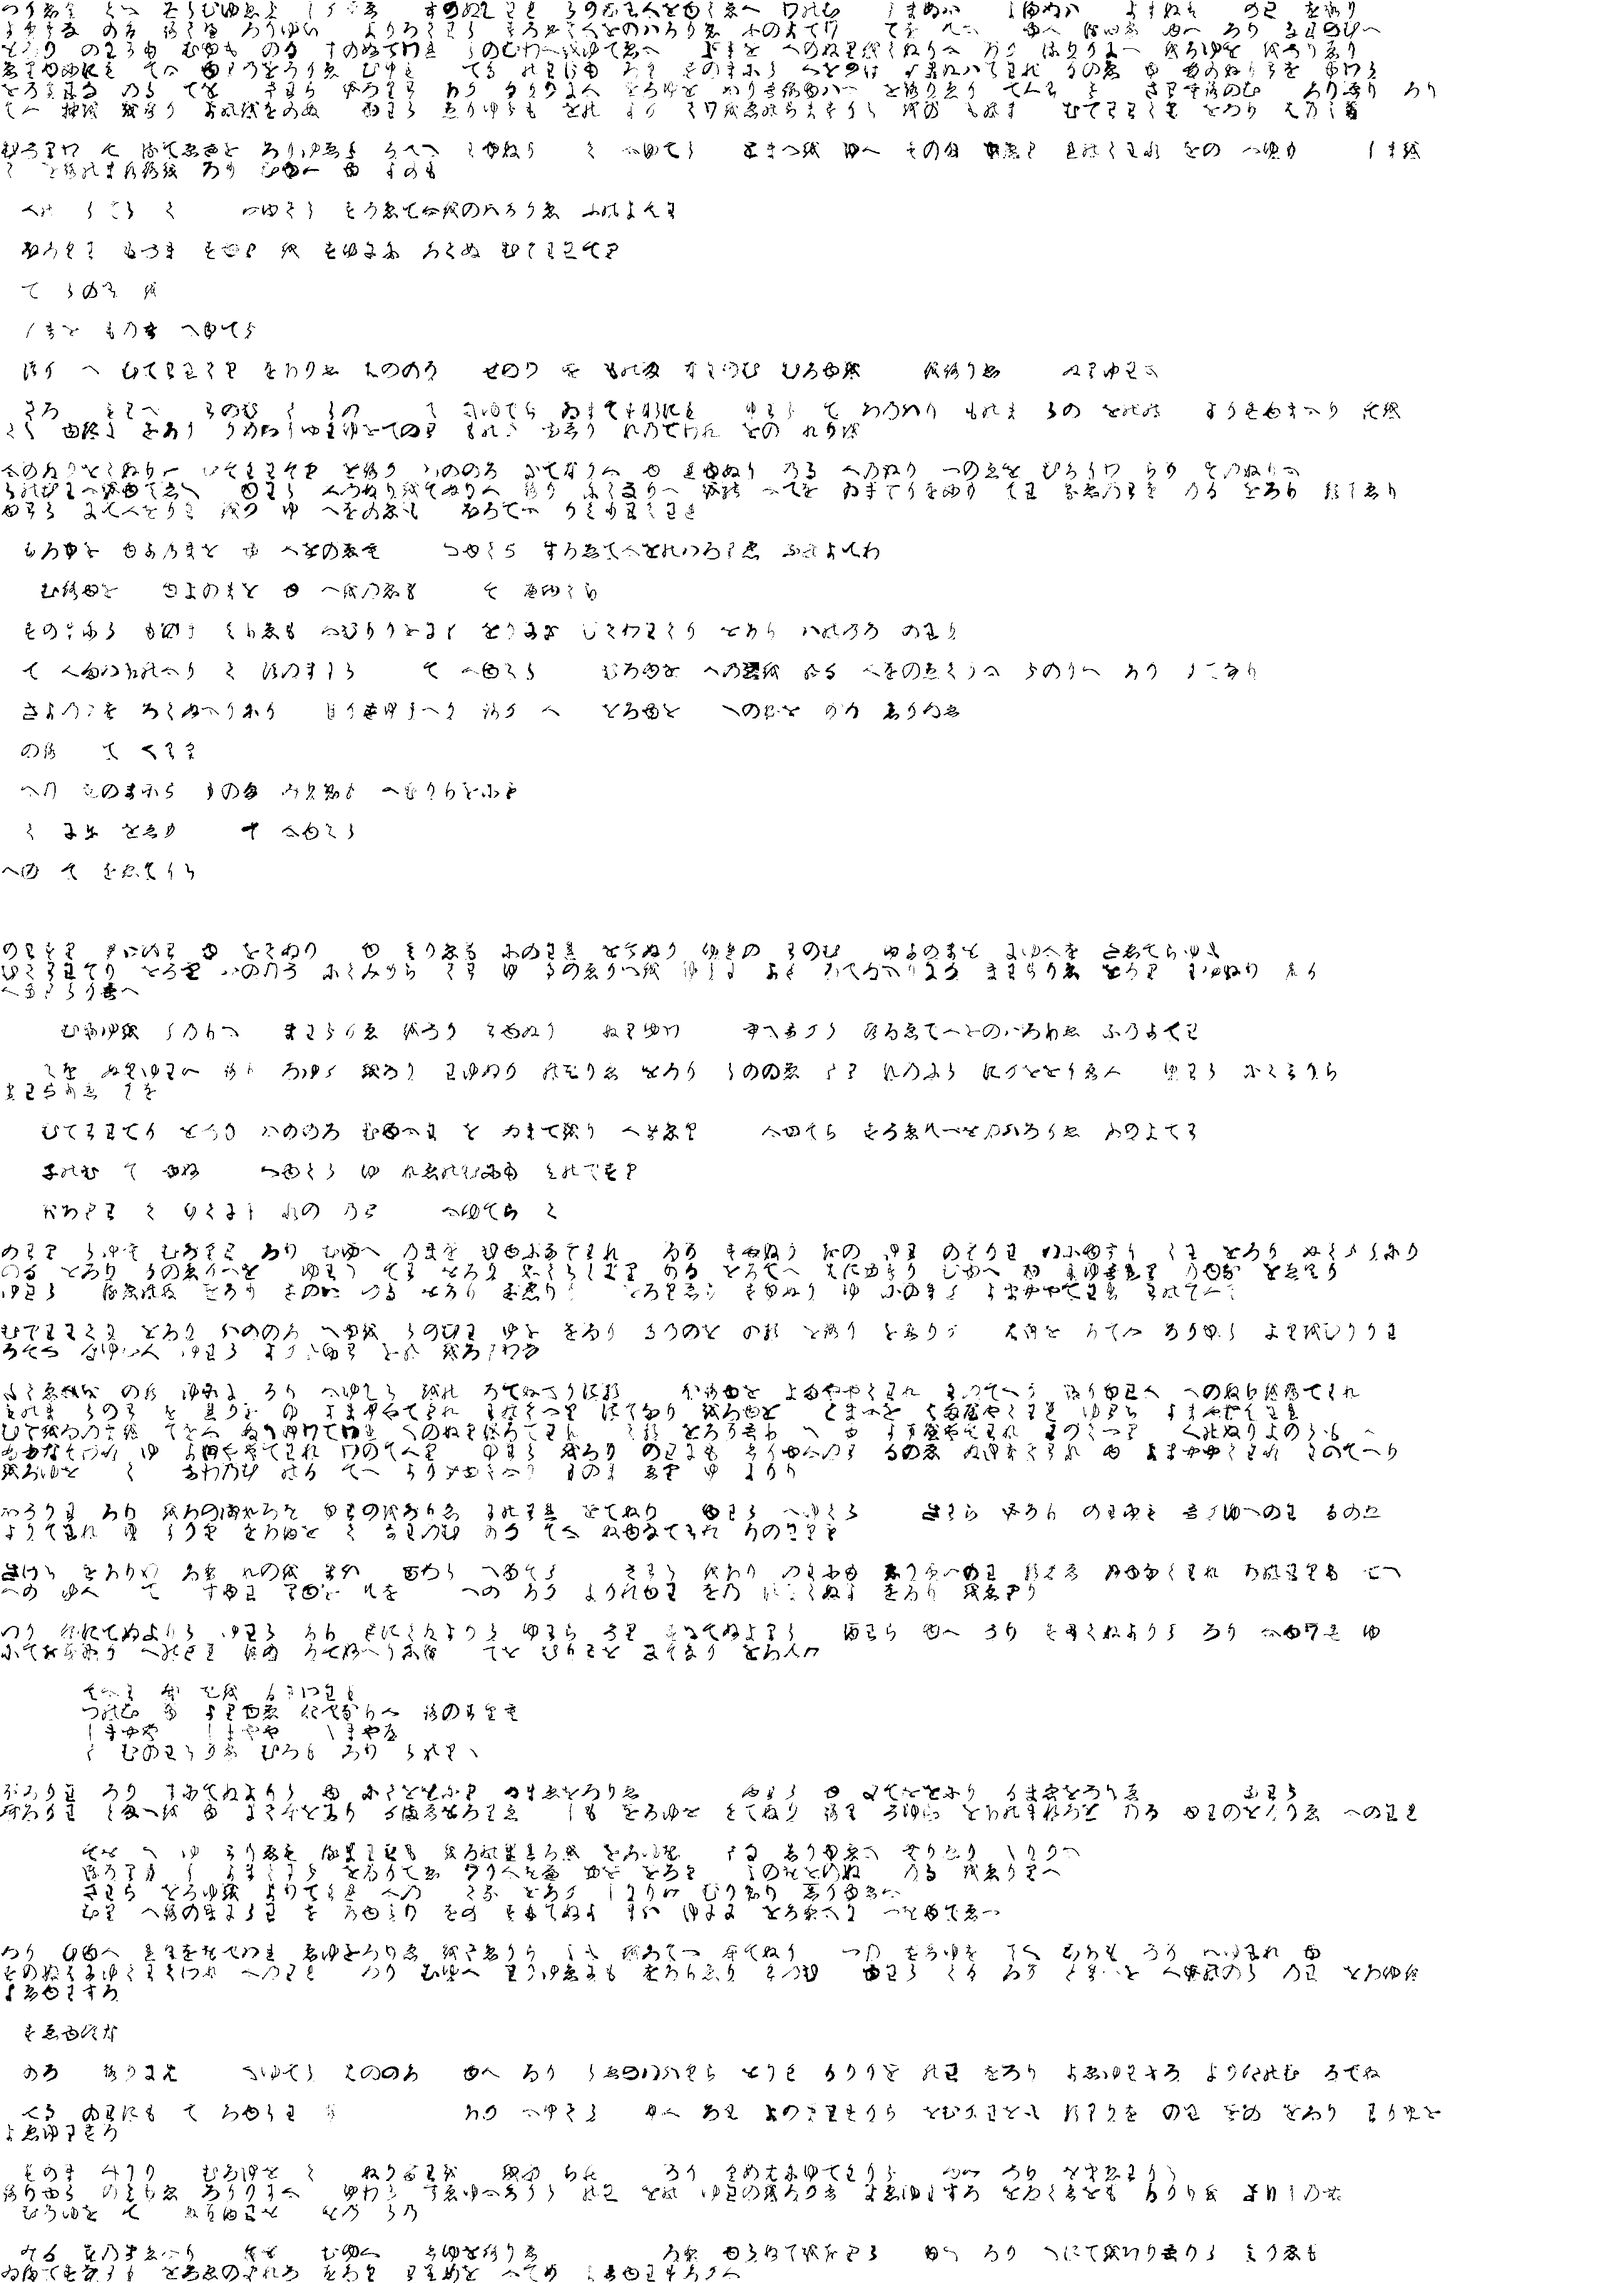
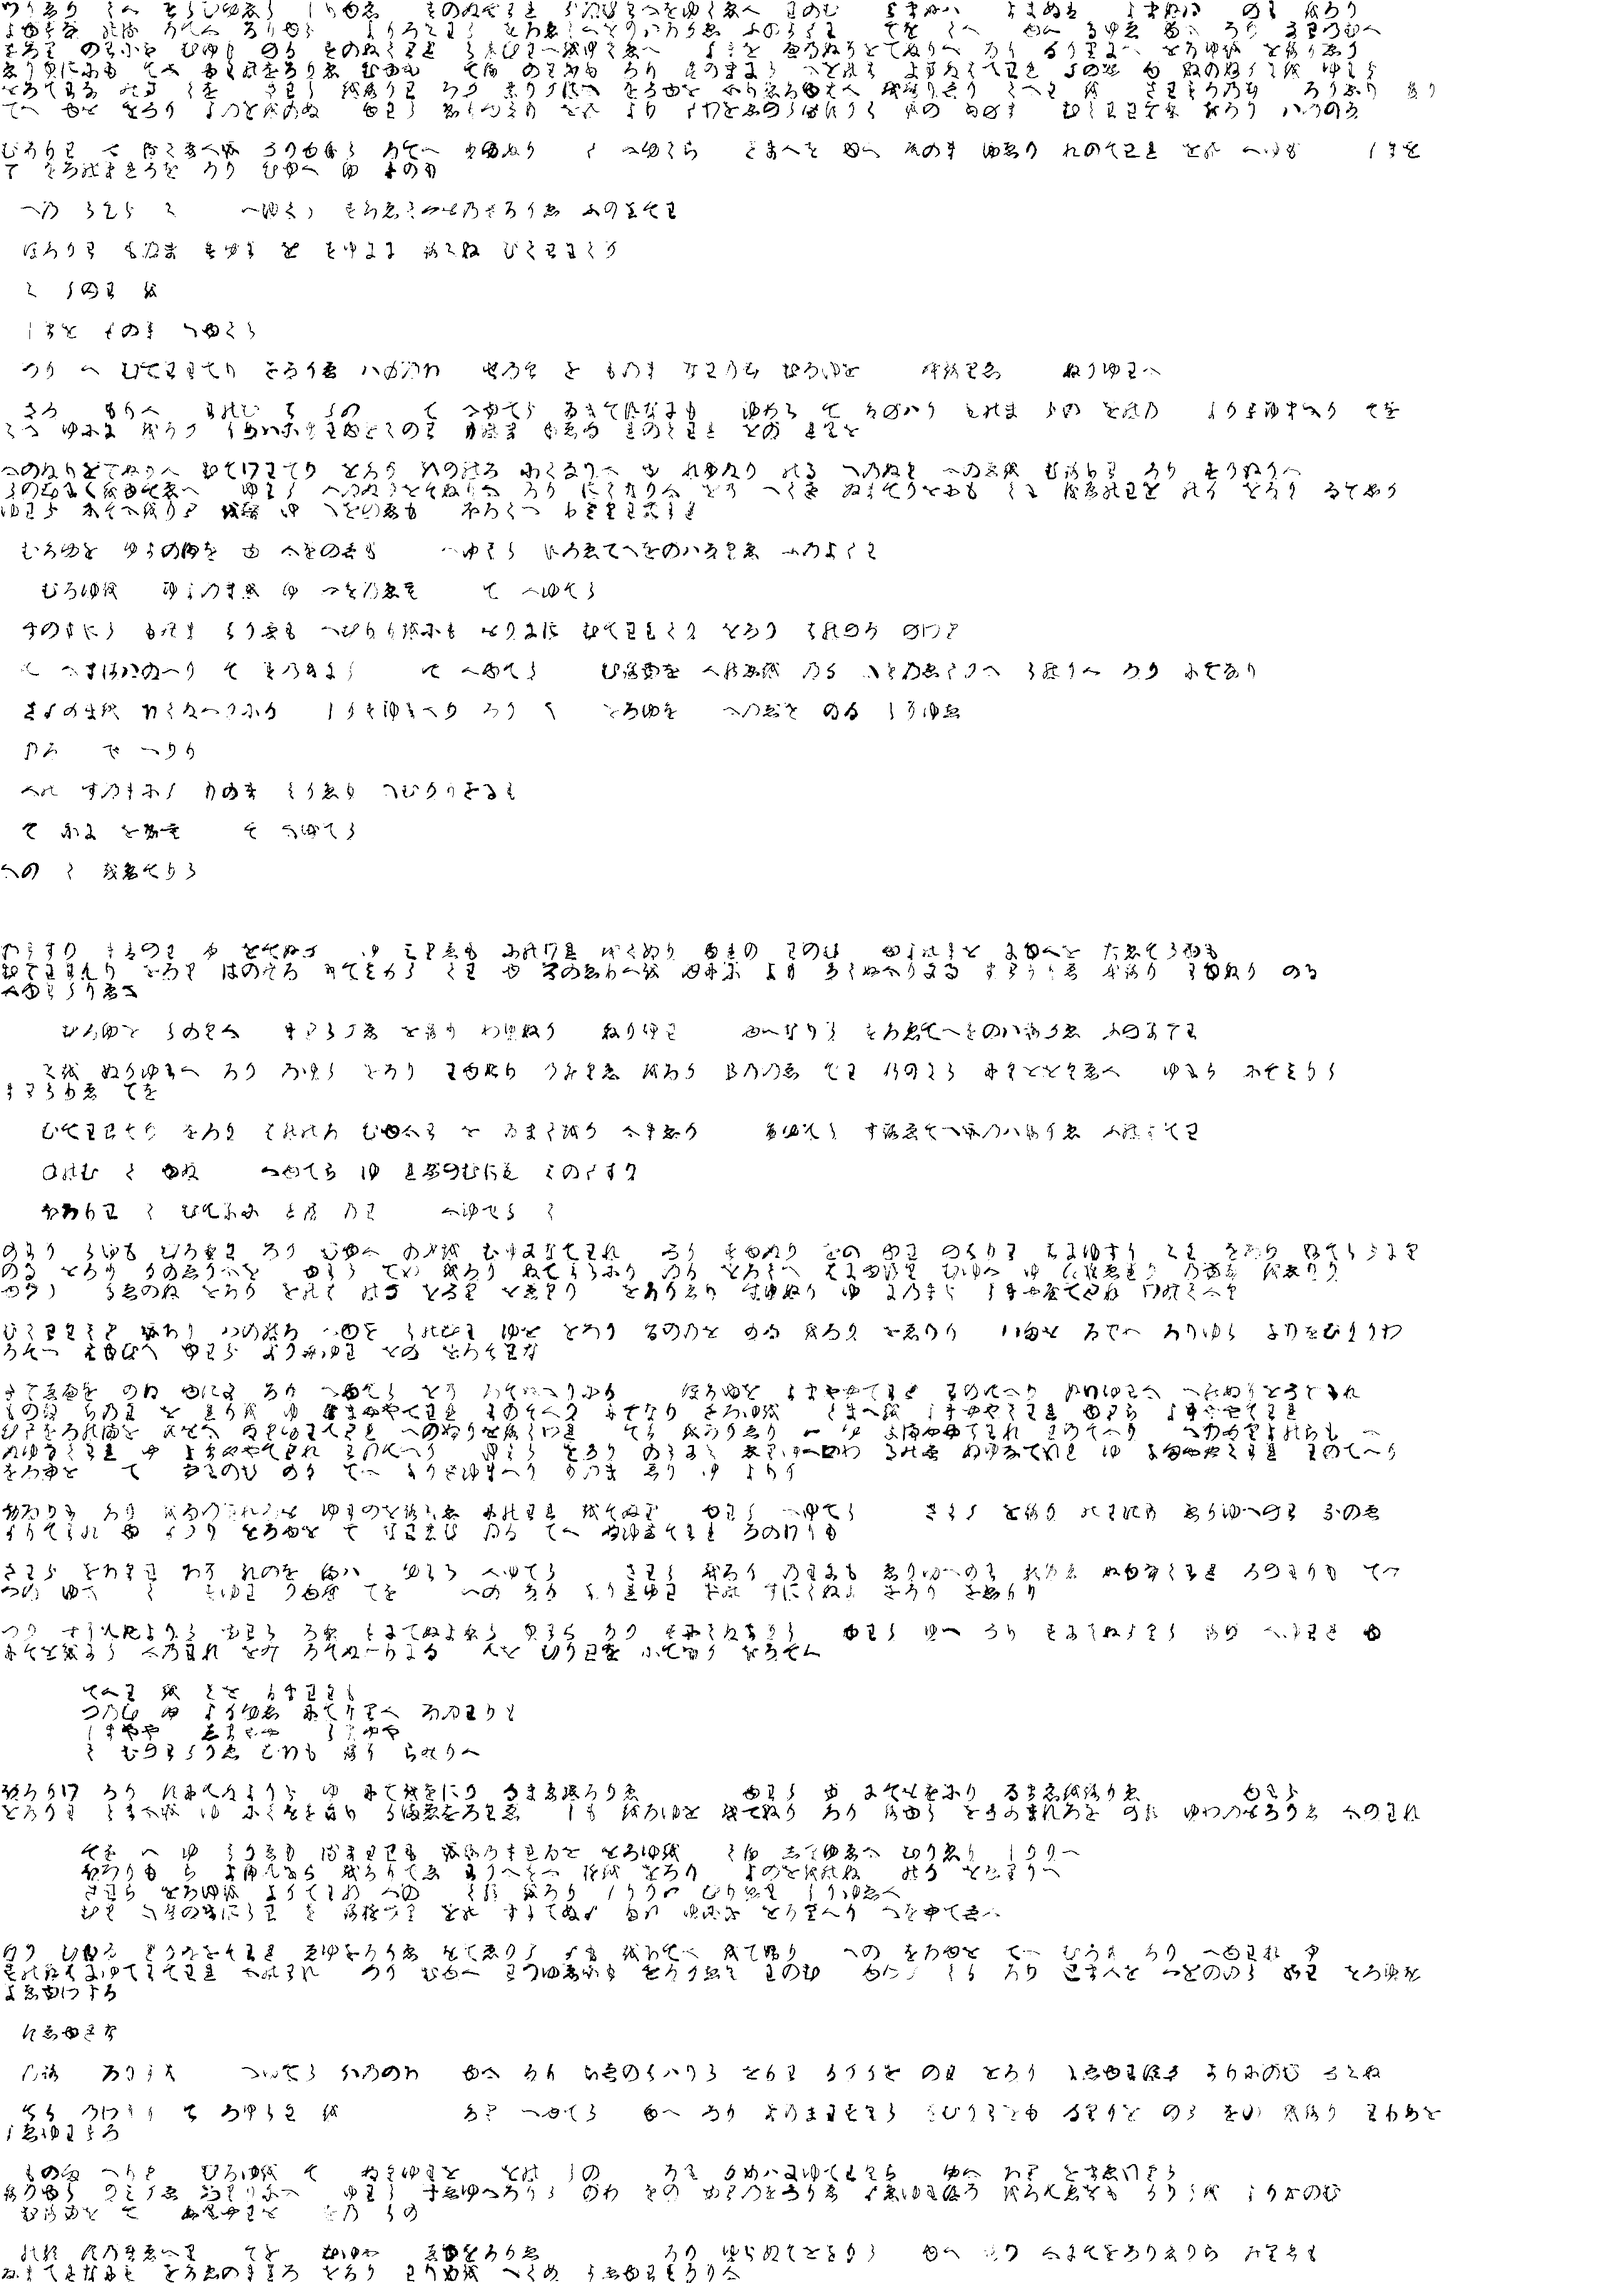
Created dataset

diff --git a/noise.py b/noise.py
@@ -1,0 +1,82 @@
+import numpy as np
+import cv2
+import matplotlib.pyplot as plt
+import random
+from PIL import Image
+
+
+def s_p_noise(image: np.ndarray, prob: float) -> np.ndarray:
+    """
+    Add salt and pepper noise to image
+
+    Parameters
+    ----------
+    image: np.ndarray
+    prob: float, chance of noise
+    Returns
+    -------
+    output: np.ndarray, noised image
+
+    """
+    output = image.copy()
+    salt = 255
+    pepper = 0
+    print(np.int32(image.size * prob))
+    for i in range(np.int32(image.size * prob)):
+        y = np.random.randint(0, image.shape[0])
+        x = np.random.randint(0, image.shape[1])
+        if i % 2:
+            output[y, x] = pepper
+        else:
+            output[y, x] = salt
+    return output
+
+
+def _generate_line(img):
+    """
+    Generate line
+
+    Parameters
+    ----------
+    img: np.ndarray
+
+    """
+    y = np.int64(random.randint(0, img.shape[0]))
+    x = np.int64(random.randint(0, img.shape[1]))
+    length = np.int32(random.randint(50, 500))
+    if random.random() > 0.5:
+        cv2.line(img, (y, x), (y + length, x + length), color=(100), thickness=1)
+    else:
+        cv2.line(img, (y + length, x), (y, x + length), color=(50), thickness=1)
+
+
+def add_curve(image: np.ndarray, prob: float) -> np.ndarray:
+    """
+    Add curves to image
+
+    Parameters
+    ----------
+    image: np.ndarray
+    prob: float, chance of occur line
+    Returns
+    -------
+    output: np.ndarray, image with lines
+
+    """
+    output = image.copy()
+    for i in range(np.int32(image.size * prob)):
+        _generate_line(output)
+
+    return output
+
+for i in range(4):
+    page = cv2.imread(f'data/latin/latin{i}.png')
+    page_curved = add_curve(image=page, prob=0.00001)
+    page_noised = s_p_noise(image=page_curved, prob=0.07)
+    cv2.imwrite(f'data/latin/latinNoise{i}.png', page_noised)
+
+for i in range(4):
+    page = cv2.imread(f'data/hiragana/hiragana{i}.png')
+    page_curved = add_curve(image=page, prob=0.00001)
+    page_noised = s_p_noise(image=page_curved, prob=0.07)
+    cv2.imwrite(f'data/hiragana/hiraganaNoise{i}.png', page_noised)

diff --git a/createDataset.py b/createDataset.py
@@ -1,0 +1,22 @@
+import numpy as np
+import cv2
+import matplotlib.pyplot as plt
+import random
+from PIL import Image
+
+
+dataset =[]
+
+for i in range(4):
+    latin = cv2.imread(f'data/latin/latinNoise{i}.png', cv2.IMREAD_GRAYSCALE)
+    hiragana = cv2.imread(f'data/hiragana/hiraganaNoise{i}.png', cv2.IMREAD_GRAYSCALE)
+    for x in range(80):
+        for y in range(114):
+            pair = []
+            pair.append(latin[32 * y:32 * (y + 1), x * 32:(1 + x) * 32])
+            pair.append(hiragana[32 * y:32 * (y + 1), x * 32:(1 + x) * 32])
+            dataset.append(pair)
+
+dataset = np.array(dataset)
+print(dataset.shape)
+np.save('data/ourDataset_noise0.07_lines.npy', dataset)

diff --git a/loadDataset.py b/loadDataset.py
@@ -1,0 +1,13 @@
+import numpy as np
+import matplotlib.pyplot as plt
+import random
+
+dataset = np.load('data/ourDataset_noise0.07_lines.npy')
+
+print(dataset.shape)
+
+rpair = random.randrange(dataset.shape[0])
+plt.imshow(dataset[rpair][0], cmap='binary')
+plt.show()
+plt.imshow(dataset[rpair][1], cmap='binary')
+plt.show()
